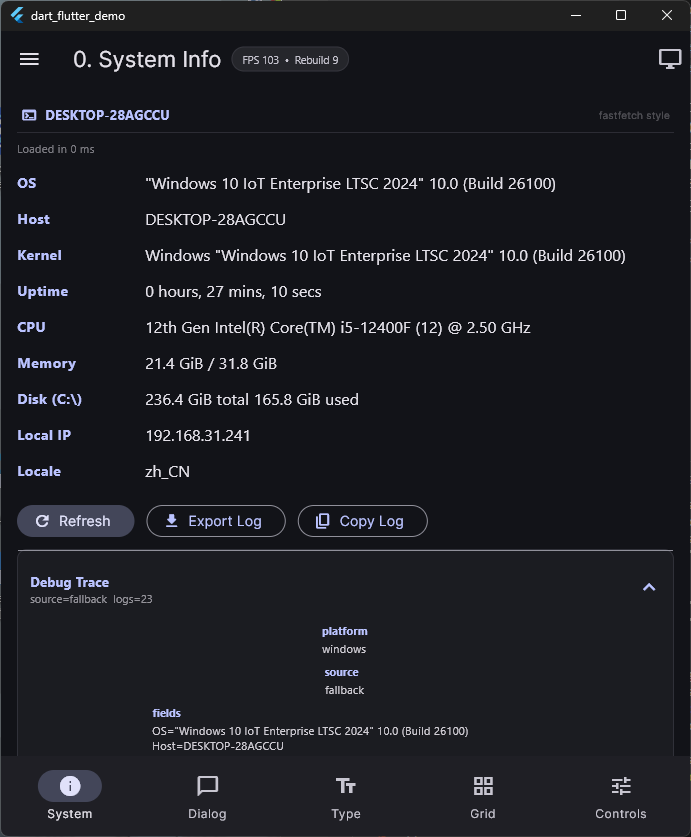
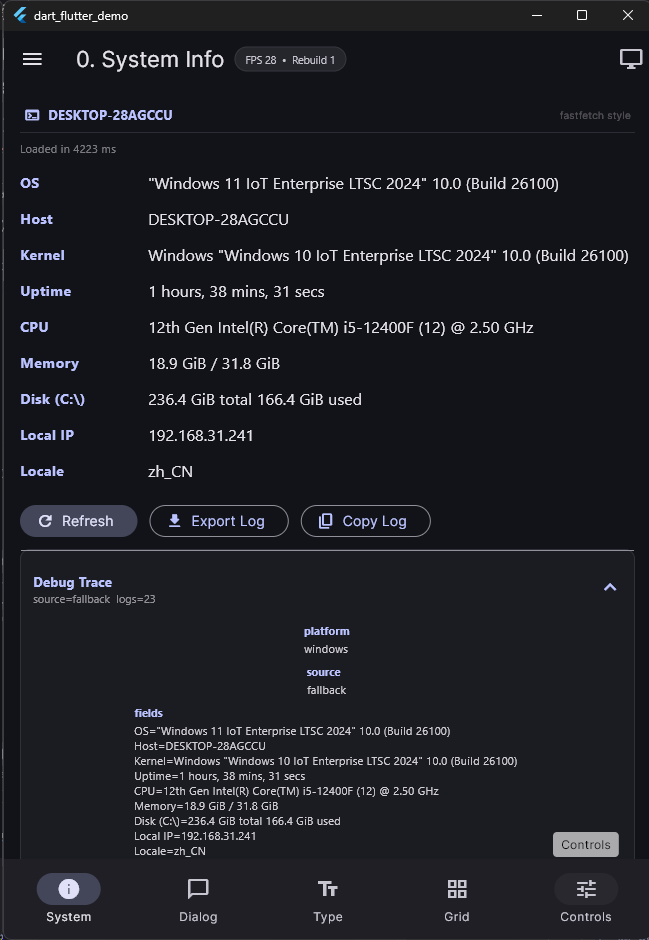
feat(linux): 三层 fallback 检测 Local IP，README 新增 Debian 13 / WSL 截图 _getLocalIP():   Tier1: NetworkInterface.listSync()（Dart 原生 getifaddrs）   Tier2: hostname -I   Tier3: ip -4 route get 1（解析 src 字段，解决 WSL2 无 hostname 问题） README: 对比表新增 Debian 13 KDE / Windows 10 WSL Arch Linux 行 版本号 0.3.6-beta.2 → 0.3.

diff --git a/lib/services/system_info_service.dart b/lib/services/system_info_service.dart
@@ -1335,13 +1335,52 @@ class _LinuxSystemInfo implements SystemInfoService {
 
   static String _getLocalIP() {
     try {
-      final result = Process.runSync('hostname', ['-I']);
-      if (result.exitCode == 0) {
-        final ips = result.stdout.toString().trim().split(' ');
-        if (ips.isNotEmpty && ips[0].isNotEmpty) return ips[0];
+      final interfaces = NetworkInterface.listSync(
+        includeLoopback: false,
+        type: InternetAddressType.IPv4,
+      );
+      for (final iface in interfaces) {
+        for (final addr in iface.addresses) {
+          final normalized = _normalizeLinuxIpv4(addr.address);
+          if (normalized != null) return normalized;
+        }
       }
     } catch (_) {}
+
+    try {
+      final result = Process.runSync('hostname', ['-I']);
+      if (result.exitCode == 0) {
+        final ips = result.stdout.toString().trim().split(RegExp(r'\s+'));
+        for (final ip in ips) {
+          final normalized = _normalizeLinuxIpv4(ip);
+          if (normalized != null) return normalized;
+        }
+      }
+    } catch (_) {}
+
+    try {
+      final route = Process.runSync('ip', ['-4', 'route', 'get', '1']);
+      if (route.exitCode == 0) {
+        final match = RegExp(r'src\s+(\d+\.\d+\.\d+\.\d+)')
+            .firstMatch(route.stdout.toString());
+        if (match != null) {
+          final normalized = _normalizeLinuxIpv4(match.group(1)!);
+          if (normalized != null) return normalized;
+        }
+      }
+    } catch (_) {}
+
     return 'unknown';
+  }
+
+  static String? _normalizeLinuxIpv4(String raw) {
+    final value = raw.trim();
+    if (value.isEmpty) return null;
+    if (value.startsWith('127.')) return null;
+    if (value.startsWith('169.254.')) return null;
+    final match = RegExp(r'^(\d{1,3}\.){3}\d{1,3}$').firstMatch(value);
+    if (match == null) return null;
+    return value;
   }
 
   static String _getLocale() {

diff --git a/.github/release_template.md b/.github/release_template.md
@@ -9,10 +9,10 @@
 
 | OS / Arch | x86_64 | ARM64 | Universal |
 |-----------|--------|-------|-----------|
-| **Windows** | [![windows-x64](https://img.shields.io/badge/windows-x86__64_zip-0078D4.svg)](__BASE_URL__/dart-flutter-demo-windows-x64-v__VERSION__.zip) | *none yet* | *none yet* |
-| **Linux** | [![linux-x64-appimage](https://img.shields.io/badge/linux-x86__64_AppImage-f84e29.svg?logo=linux)](__BASE_URL__/dart-flutter-demo-linux-x64-v__VERSION__.AppImage) · [![linux-x64-deb](https://img.shields.io/badge/linux-x86__64_deb-CE0056.svg?logo=debian)](__BASE_URL__/dart-flutter-demo-linux-x64-v__VERSION__.deb) · [![linux-x64-tar](https://img.shields.io/badge/linux-x86__64_tar.gz-E95420.svg?logo=linux)](__BASE_URL__/dart-flutter-demo-linux-x64-v__VERSION__.tar.gz) | *none yet* | *none yet* |
-| **macOS** | [![macos-x64](https://img.shields.io/badge/macOS-x86__64_dmg-8E8E93.svg?logo=apple)](__BASE_URL__/dart-flutter-demo-macos-x64-v__VERSION__.dmg) | [![macos-arm64](https://img.shields.io/badge/macOS-ARM64_dmg-8E8E93.svg?logo=apple)](__BASE_URL__/dart-flutter-demo-macos-arm64-v__VERSION__.dmg) | *none yet* |
-| **Android** | [![android-x64](https://img.shields.io/badge/android-x86__64_apk-8FE388.svg?logo=android)](__BASE_URL__/dart-flutter-demo-android-x86_64-v__VERSION__.apk) | [![android-arm64](https://img.shields.io/badge/android-ARM64_apk-168039.svg?logo=android)](__BASE_URL__/dart-flutter-demo-android-arm64-v__VERSION__.apk) | [![android-universal](https://img.shields.io/badge/android-universal_apk-3DDC84.svg?logo=android)](__BASE_URL__/dart-flutter-demo-android-universal-v__VERSION__.apk) |
+| **Windows** | [![windows-x64](https://img.shields.io/badge/windows-x64_zip-0078D4.svg)](__BASE_URL__/dart-flutter-demo-windows-x64-v__VERSION__.zip) | *none yet* | *none yet* |
+| **Linux** | [![linux-x64-appimage](https://img.shields.io/badge/linux-x64_AppImage-f84e29.svg?logo=linux)](__BASE_URL__/dart-flutter-demo-linux-x64-v__VERSION__.AppImage) · [![linux-x64-deb](https://img.shields.io/badge/linux-x64_deb-CE0056.svg?logo=debian)](__BASE_URL__/dart-flutter-demo-linux-x64-v__VERSION__.deb) · [![linux-x64-tar](https://img.shields.io/badge/linux-x64_tar.gz-E95420.svg?logo=linux)](__BASE_URL__/dart-flutter-demo-linux-x64-v__VERSION__.tar.gz) | *none yet* | *none yet* |
+| **macOS** | [![macos-x64](https://img.shields.io/badge/macOS-x64_dmg-8E8E93.svg?logo=apple)](__BASE_URL__/dart-flutter-demo-macos-x64-v__VERSION__.dmg) | [![macos-arm64](https://img.shields.io/badge/macOS-ARM64_dmg-8E8E93.svg?logo=apple)](__BASE_URL__/dart-flutter-demo-macos-arm64-v__VERSION__.dmg) | *none yet* |
+| **Android** | [![android-x64](https://img.shields.io/badge/android-x64_apk-8FE388.svg?logo=android)](__BASE_URL__/dart-flutter-demo-android-x86_64-v__VERSION__.apk) | [![android-arm64](https://img.shields.io/badge/android-ARM64_apk-168039.svg?logo=android)](__BASE_URL__/dart-flutter-demo-android-arm64-v__VERSION__.apk) | [![android-universal](https://img.shields.io/badge/android-universal_apk-3DDC84.svg?logo=android)](__BASE_URL__/dart-flutter-demo-android-universal-v__VERSION__.apk) |
 | **iOS** | *none yet* | [![ios-arm64](https://img.shields.io/badge/iOS-ARM64_ipa-000000.svg?logo=apple)](__BASE_URL__/dart-flutter-demo-ios-v__VERSION__.ipa) | *none yet* |
 
 > *`none yet`* means this platform is not included in the current GitHub Actions build matrix yet.

diff --git a/README.md b/README.md
@@ -45,8 +45,16 @@ Source: [lib/pages/page0_system_info.dart](https://github.com/VincentZyu233/dart
       <td align="center"><sub>Windows 11</sub><br><img src="doc/preview-pics/fastfetch.windows11.png" width="100%"/></td>
     </tr>
     <tr>
+      <td align="center"><sub>Windows 10 WSL Arch Linux</sub><br><img src="doc/preview-pics/page0.windows10.wsl.arch-linux.png" width="100%"/></td>
+      <td align="center"><sub>Windows 10 WSL Arch Linux</sub><br><img src="doc/preview-pics/fastfetch.windows10.wsl.arch-linux.png" width="100%"/></td>
+    </tr>
+    <tr>
       <td align="center"><sub>Ubuntu 24.04 LXQt</sub><br><img src="doc/preview-pics/page0.ubuntu24.lxqt.png" width="100%"/></td>
       <td align="center"><sub>Ubuntu 24.04 LXQt</sub><br><img src="doc/preview-pics/fastfetch.ubuntu24.lxqt.png" width="100%"/></td>
+    </tr>
+    <tr>
+      <td align="center"><sub>Debian 13 KDE</sub><br><img src="doc/preview-pics/page0.debian13.kde.png" width="100%"/></td>
+      <td align="center"><sub>Debian 13 KDE</sub><br><img src="doc/preview-pics/fastfetch.debian13.kde.png" width="100%"/></td>
     </tr>
     <tr>
       <td align="center"><sub>macOS 14</sub><br><img src="doc/preview-pics/page0.macos14.png" width="100%"/></td>

diff --git a/README.zh-cn.md b/README.zh-cn.md
@@ -45,8 +45,16 @@
       <td align="center"><sub>Windows 11</sub><br><img src="doc/preview-pics/fastfetch.windows11.png" width="100%"/></td>
     </tr>
     <tr>
+      <td align="center"><sub>Windows 10 WSL Arch Linux</sub><br><img src="doc/preview-pics/page0.windows10.wsl.arch-linux.png" width="100%"/></td>
+      <td align="center"><sub>Windows 10 WSL Arch Linux</sub><br><img src="doc/preview-pics/fastfetch.windows10.wsl.arch-linux.png" width="100%"/></td>
+    </tr>
+    <tr>
       <td align="center"><sub>Ubuntu 24.04 LXQt</sub><br><img src="doc/preview-pics/page0.ubuntu24.lxqt.png" width="100%"/></td>
       <td align="center"><sub>Ubuntu 24.04 LXQt</sub><br><img src="doc/preview-pics/fastfetch.ubuntu24.lxqt.png" width="100%"/></td>
+    </tr>
+    <tr>
+      <td align="center"><sub>Debian 13 KDE</sub><br><img src="doc/preview-pics/page0.debian13.kde.png" width="100%"/></td>
+      <td align="center"><sub>Debian 13 KDE</sub><br><img src="doc/preview-pics/fastfetch.debian13.kde.png" width="100%"/></td>
     </tr>
     <tr>
       <td align="center"><sub>macOS 14</sub><br><img src="doc/preview-pics/page0.macos14.png" width="100%"/></td>